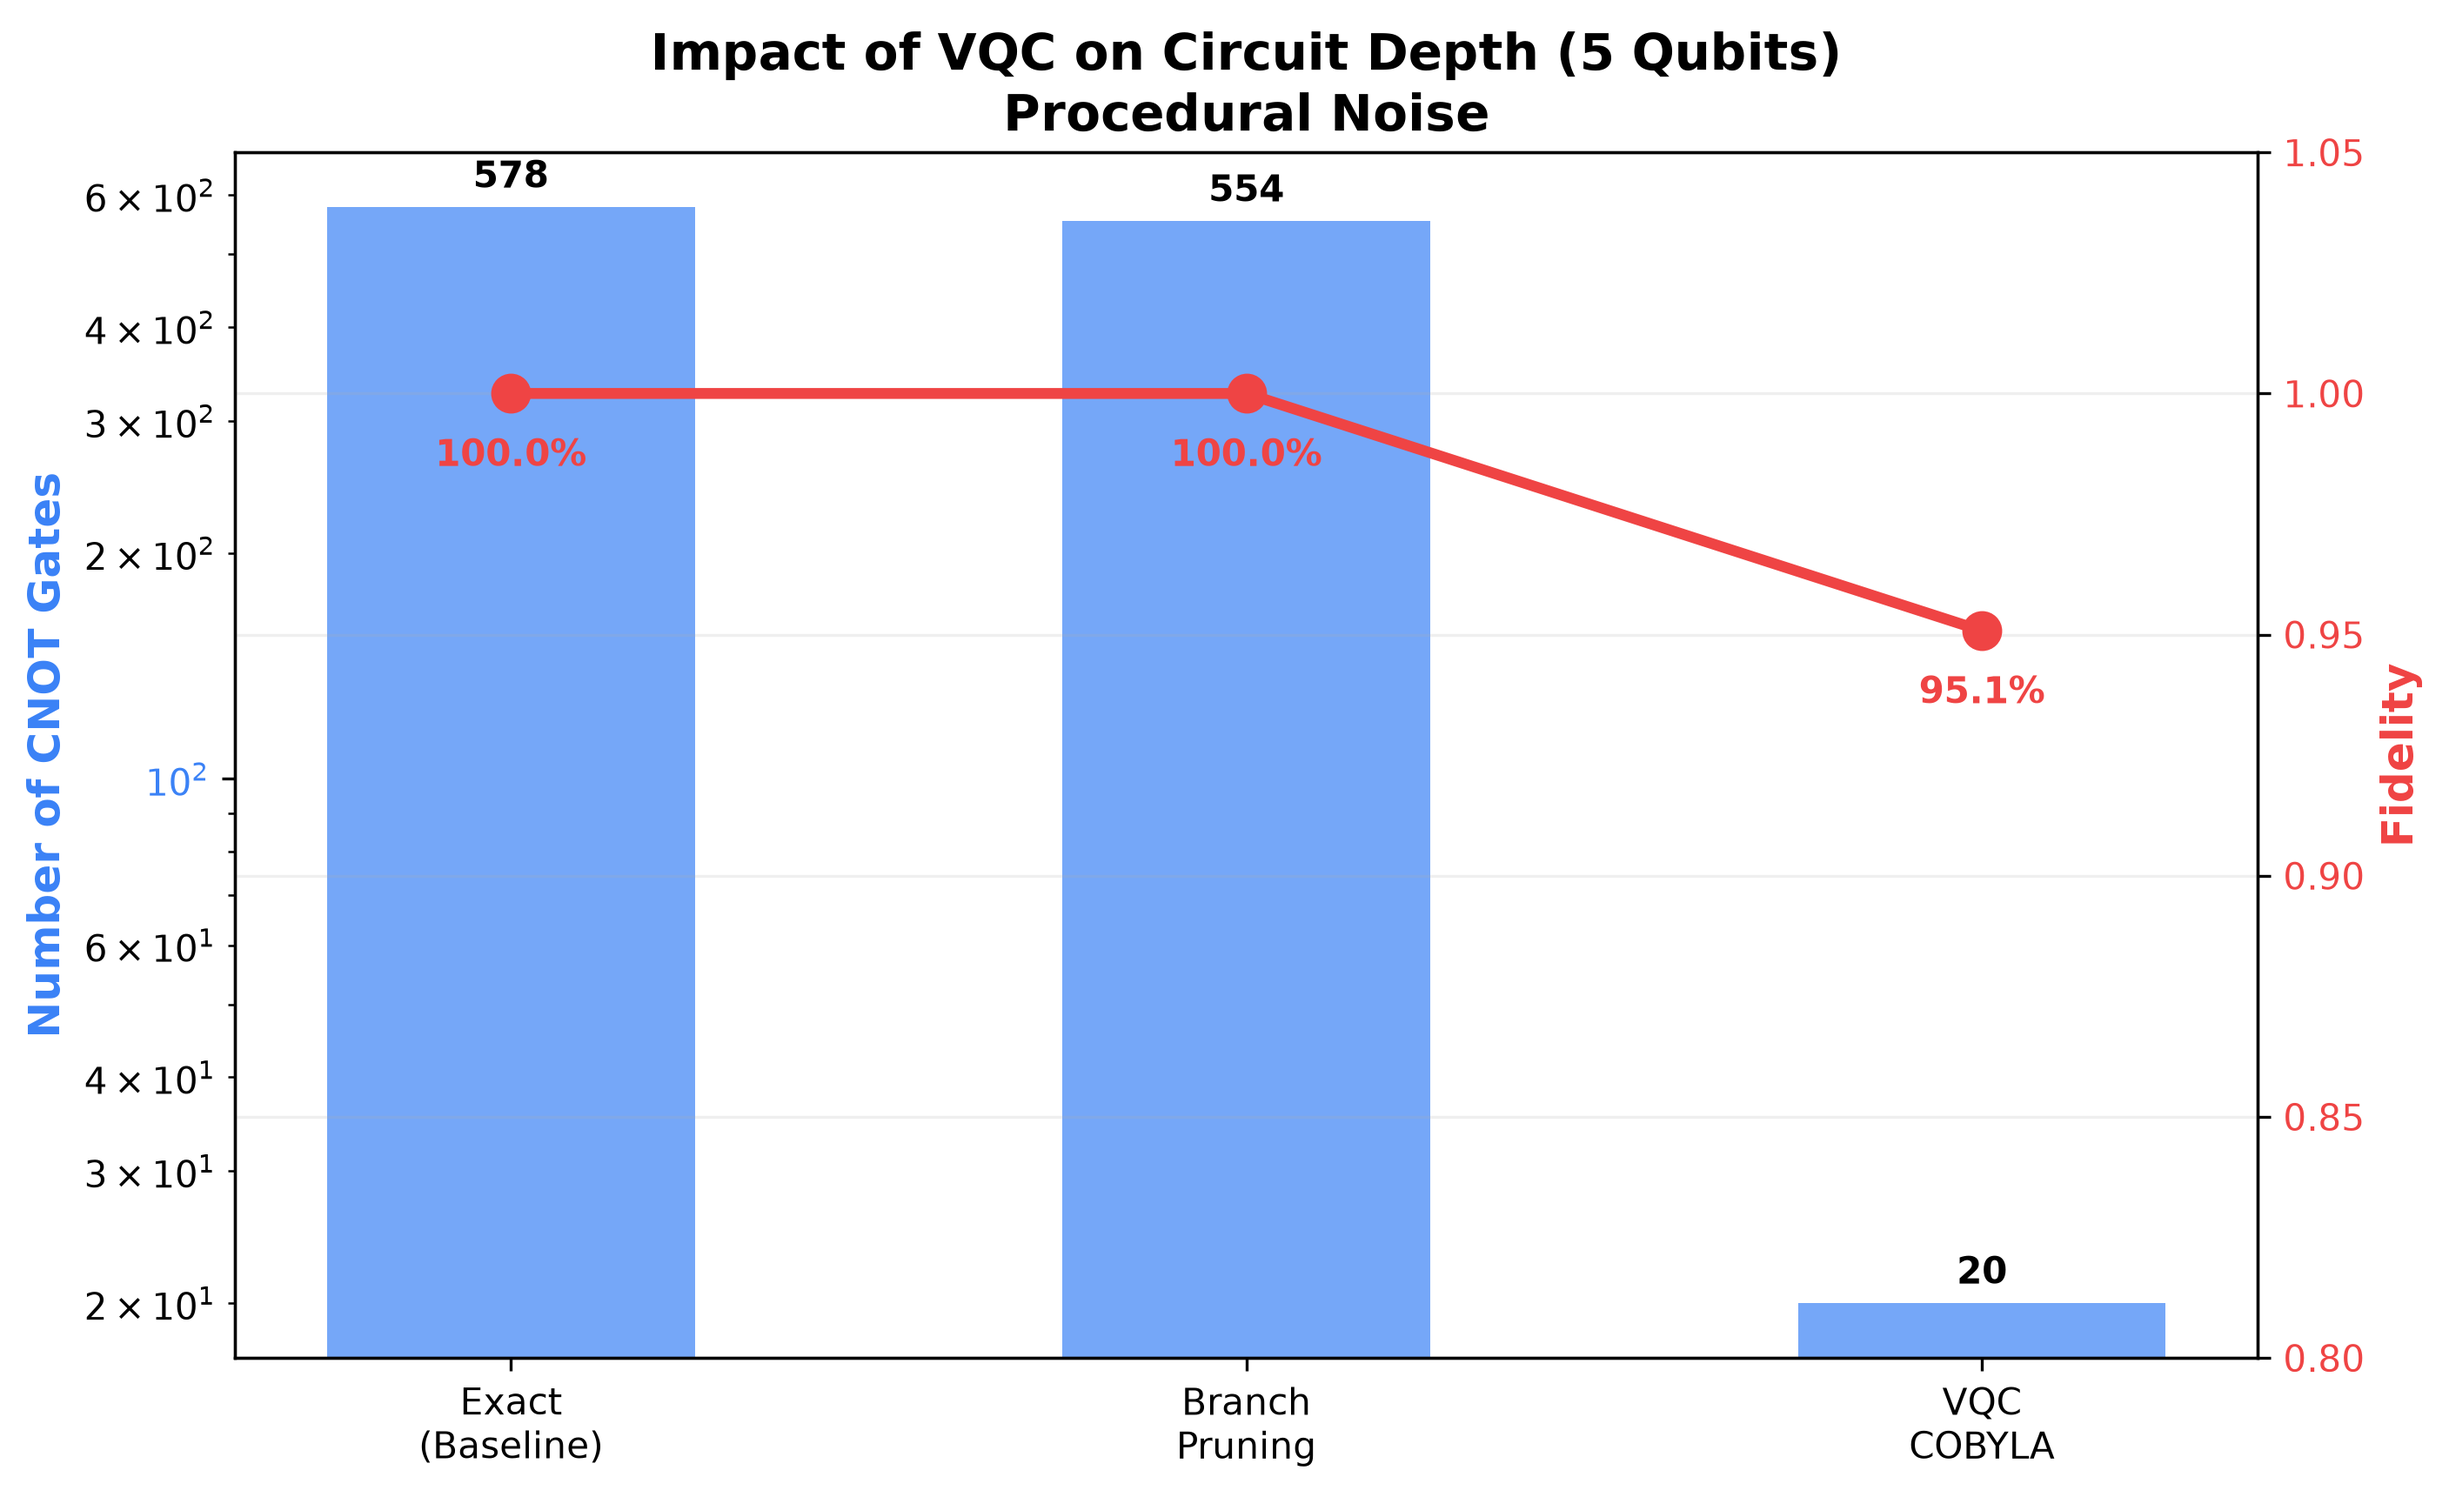
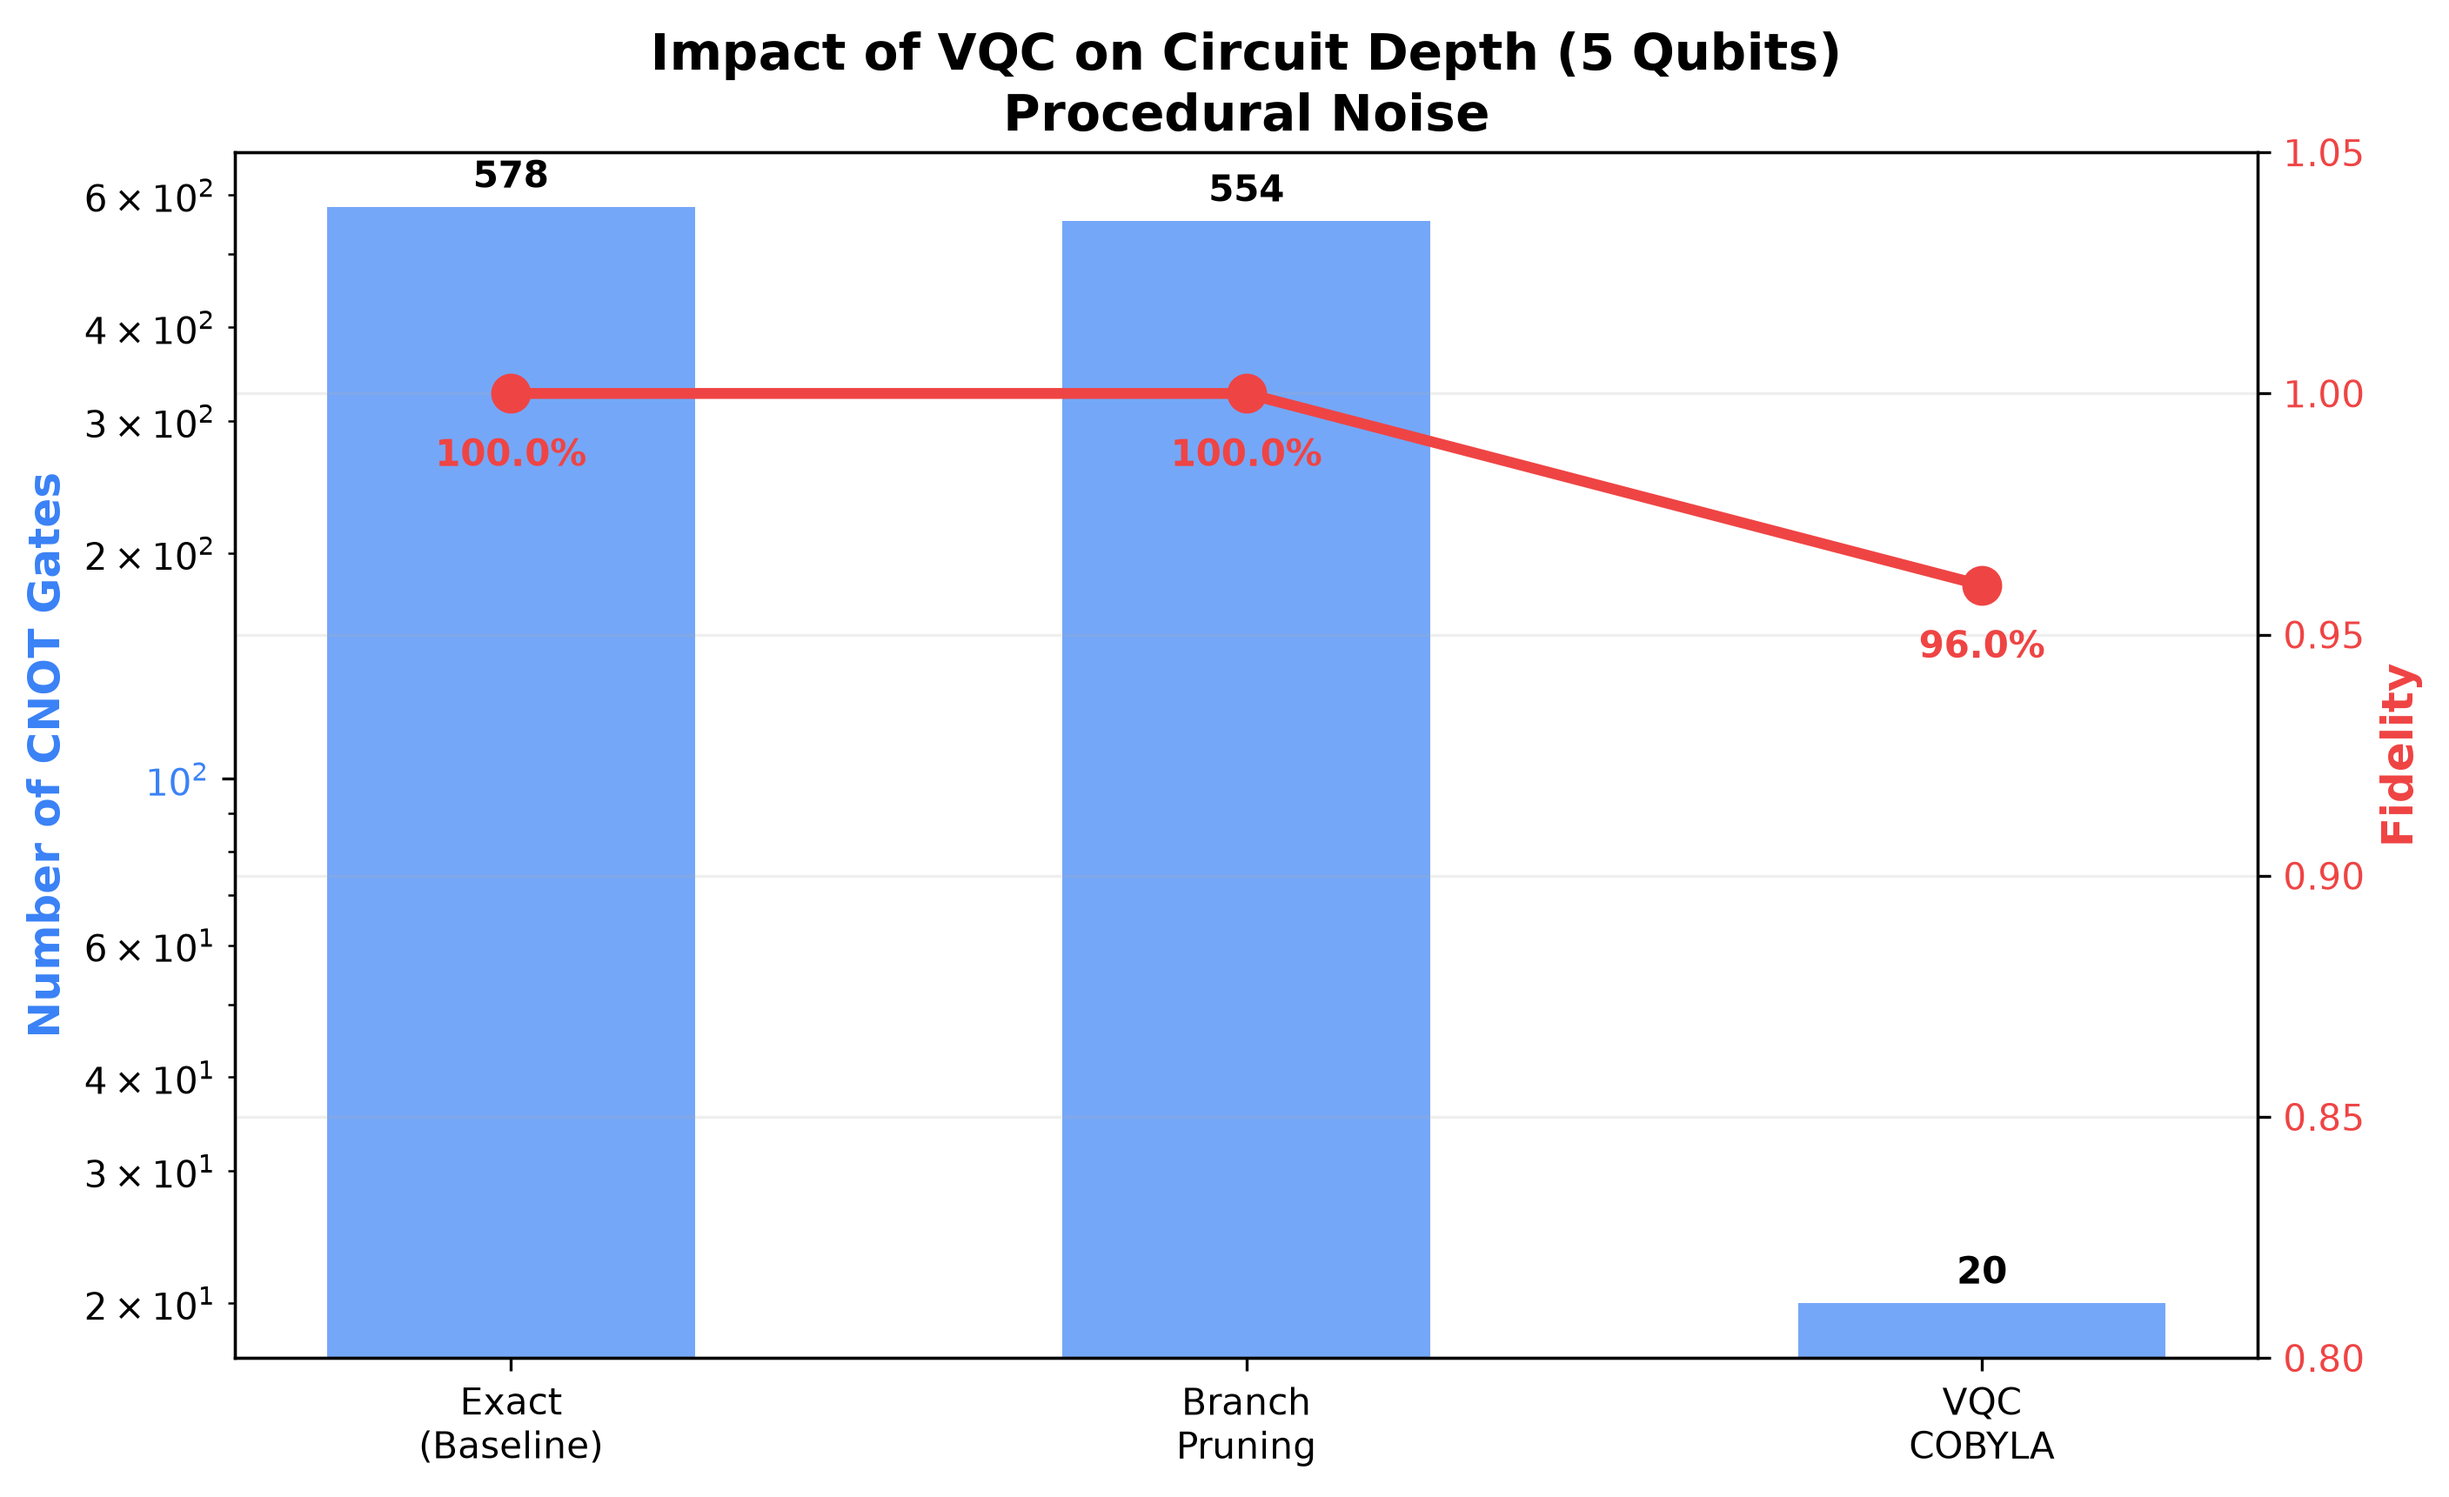
README Updated

Changed region(s): [[0.5254, 0.2772, 0.8345, 0.4927]]

diff --git a/README.md b/README.md
@@ -18,8 +18,8 @@ This library implements and benchmarks three approaches to solve the initializat
 By shifting the workload from quantum execution to classical training, the VQC architecture successfully prepares complex procedural noise states with radical gate savings.
 
 ![Comparision Chart](comparision_chart.png)
-* **Depth Reduction:** Achieved a reduction from **~1800 CNOTs to just 9 CNOTs**.
-* **Fidelity:** Maintained a state fidelity of **>99%**.
+* **Depth Reduction:** Achieved a reduction from **~578 CNOTs to just 20 CNOTs**.
+* **Fidelity:** Maintained a state fidelity of **>95%**.
 
 ![Learning Curve](learning_curve.png)
 
